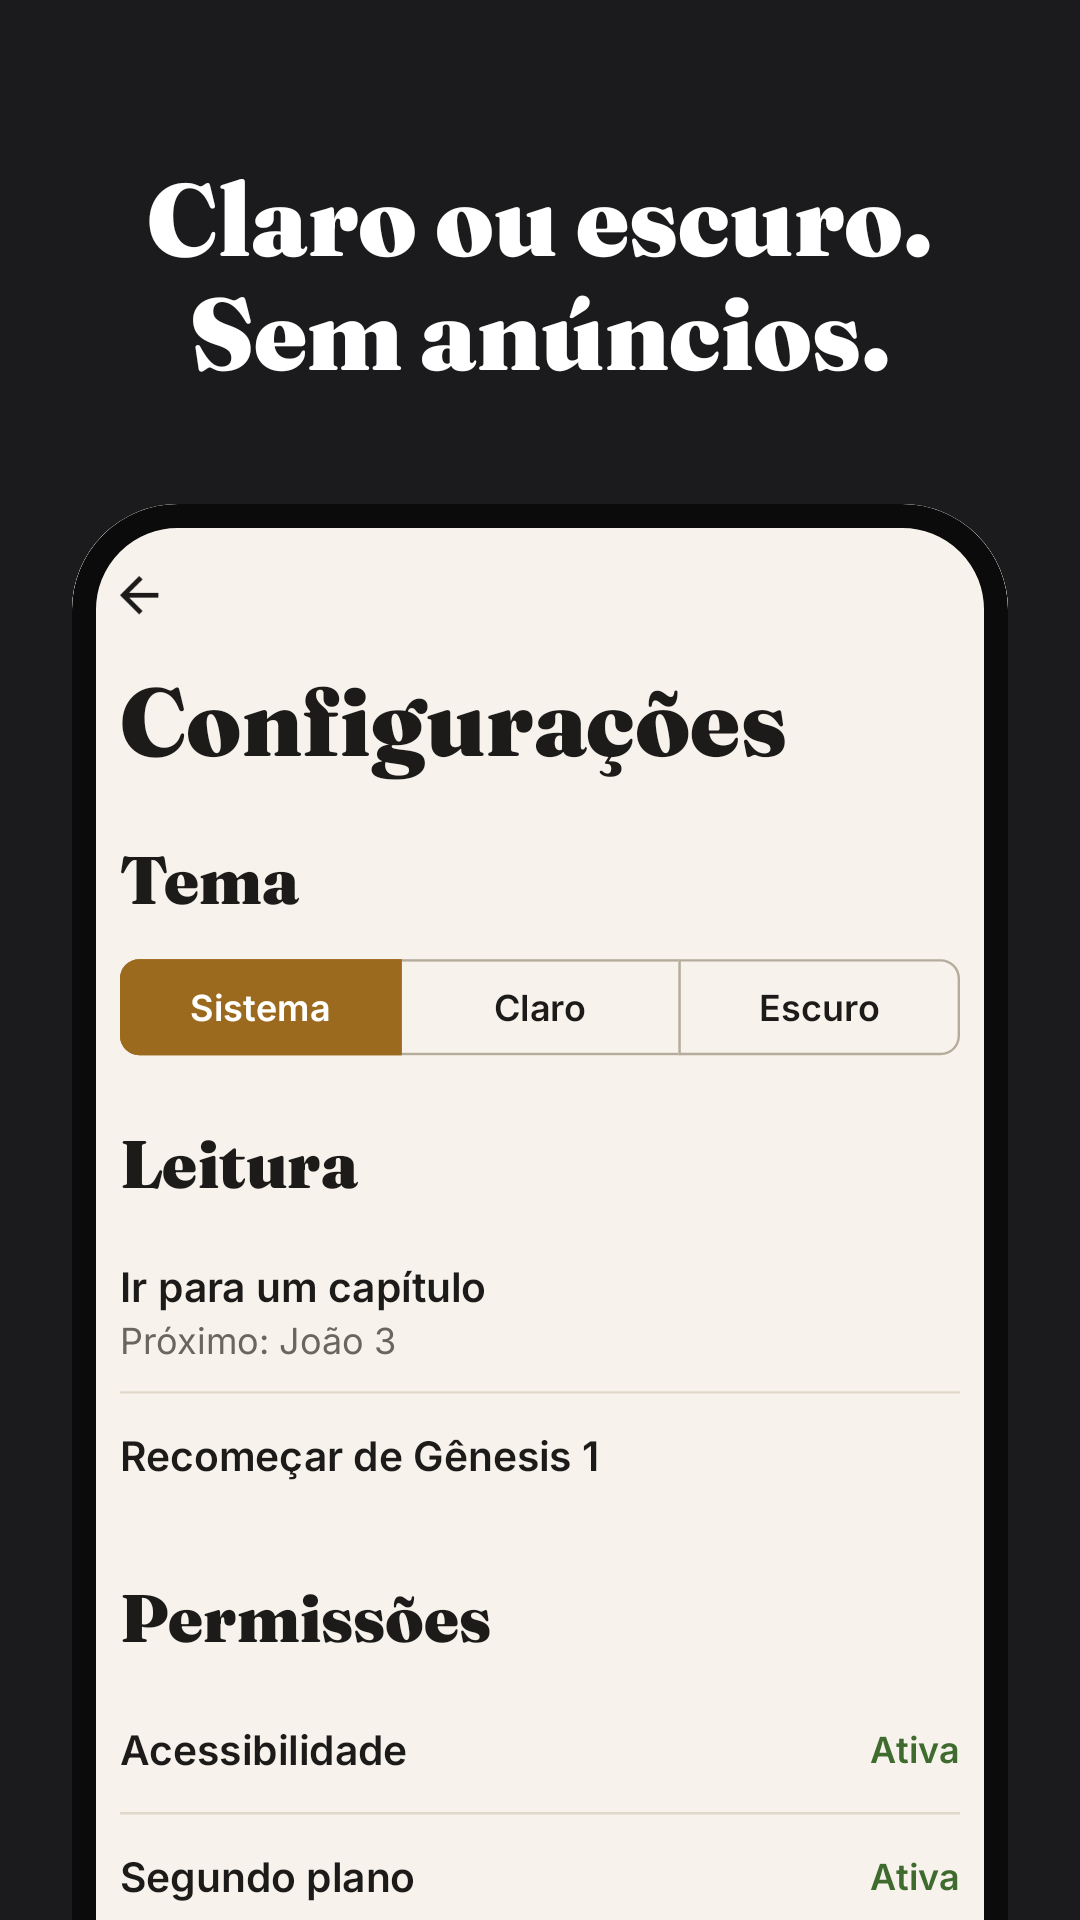
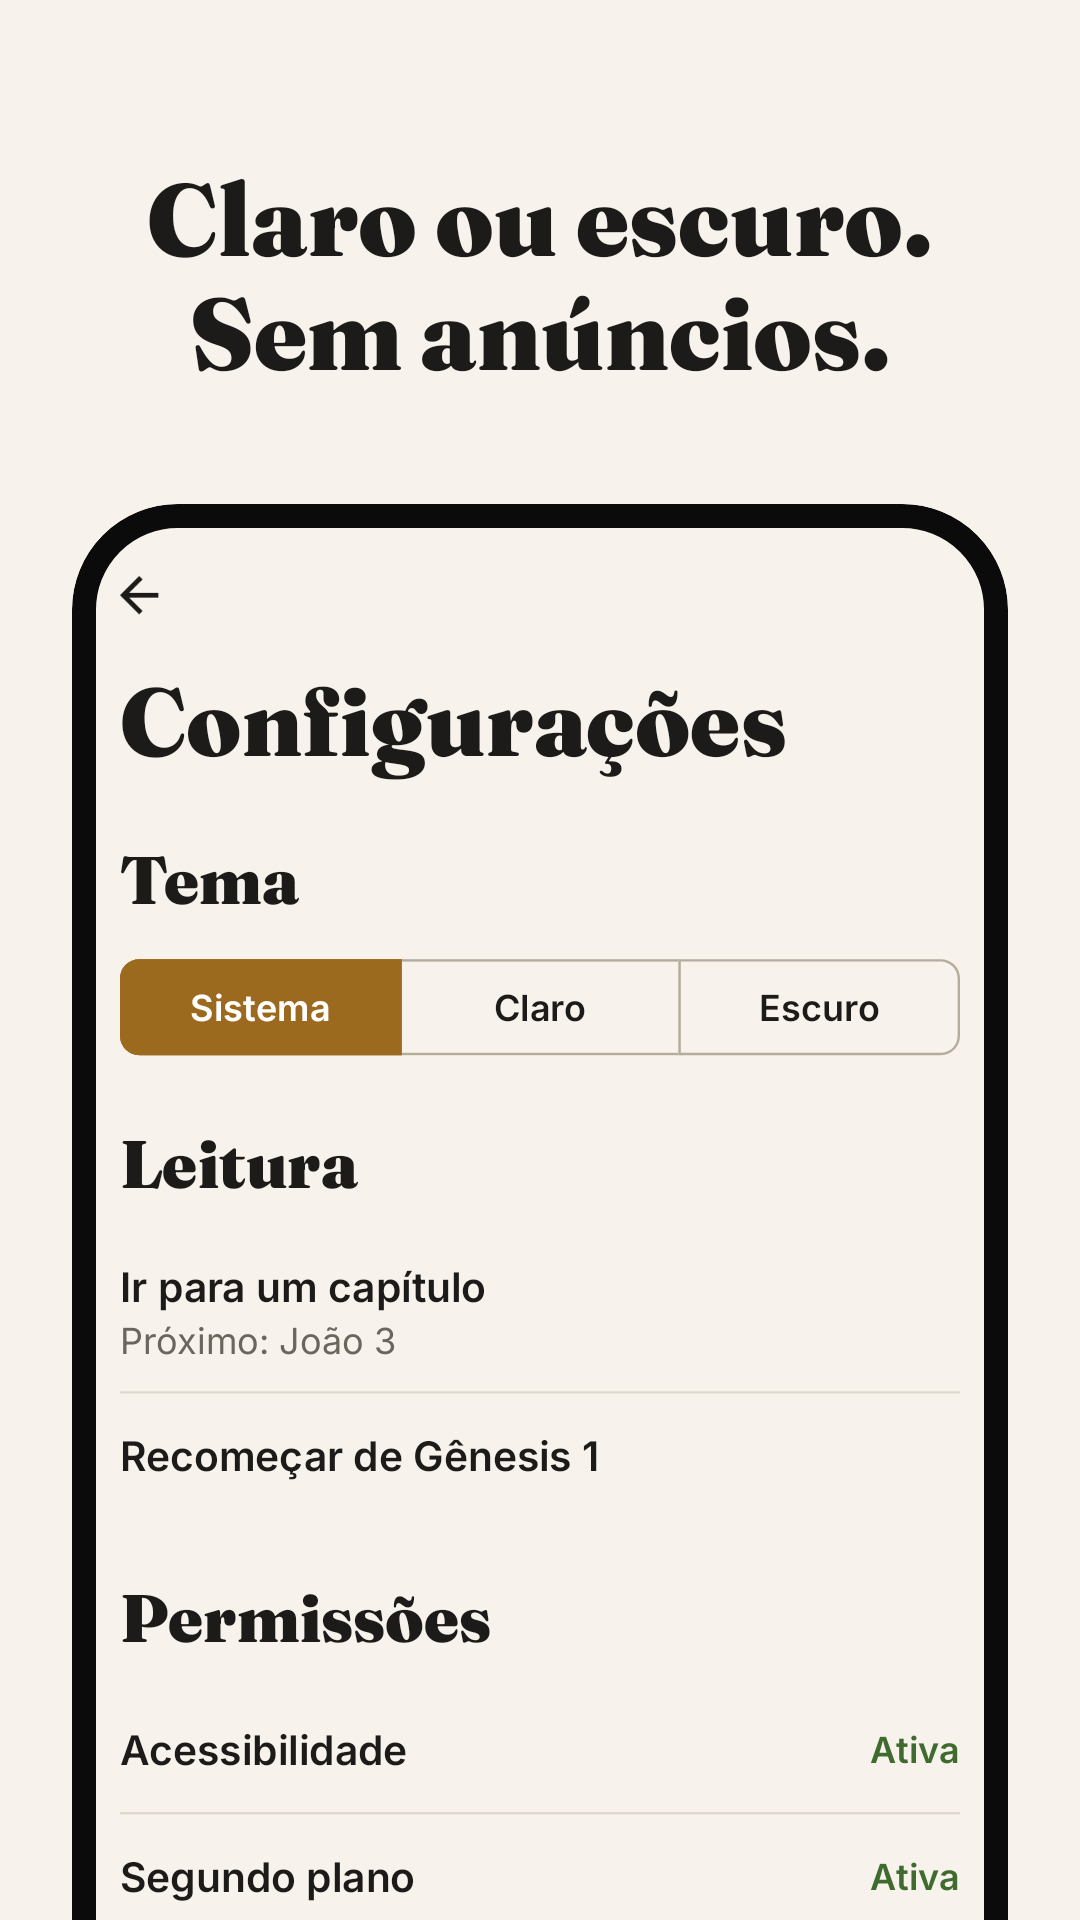
Play Store: capturas em fundo creme e tema claro

diff --git a/app/src/testGithubDebug/java/dev/renova/app/StoreImagesTest.kt b/app/src/testGithubDebug/java/dev/renova/app/StoreImagesTest.kt
@@ -55,7 +55,6 @@ import dev.renova.app.ui.Fraunces
 import dev.renova.app.ui.HomeScreen
 import dev.renova.app.ui.HomeTab
 import dev.renova.app.ui.Inter
-import dev.renova.app.ui.RenovaColors
 import dev.renova.app.ui.RuleEditorScreen
 import dev.renova.app.ui.SettingsScreen
 import kotlinx.coroutines.runBlocking
@@ -99,17 +98,17 @@ class StoreImagesTest {
         repeat(12) { store.completeChapter(bible.chaptersPerBook) }
     }
 
-    /** Frase em cima e a tela do app num "celular" que sai pela borda de baixo. */
-    private fun shot(name: String, headline: String, color: Color, dark: Boolean = true, screen: @Composable () -> Unit) {
+    /** Frase em cima e a tela do app, no tema claro, num "celular" que sai pela borda de baixo, sobre o creme. */
+    private fun shot(name: String, headline: String, screen: @Composable () -> Unit) {
         compose.setContent {
             AppTheme(dark = true) {
-                Box(Modifier.fillMaxSize().background(color)) {
+                Box(Modifier.fillMaxSize().background(Color(0xFFF7F3EC))) {
                     Text(
                         headline,
                         fontFamily = Fraunces,
                         fontSize = 34.sp,
                         lineHeight = 38.sp,
-                        color = Color.White,
+                        color = Color(0xFF1C1B19),
                         textAlign = TextAlign.Center,
                         modifier = Modifier.fillMaxWidth().padding(top = 52.dp, start = 28.dp, end = 28.dp),
                     )
@@ -129,7 +128,7 @@ class StoreImagesTest {
                             .clip(shape)
                             .border(10.dp, Color(0xFF0B0B0C), shape),
                     ) {
-                        AppTheme(dark = dark) {
+                        AppTheme(dark = false) {
                             Surface(color = MaterialTheme.colorScheme.background) {
                                 Box(Modifier.padding(top = 10.dp)) { screen() }
                             }
@@ -143,36 +142,36 @@ class StoreImagesTest {
 
     @Test fun regras() {
         allSet(); sampleData()
-        shot("1-regras", "Limite Shorts, Reels e apps", RenovaColors.Teal) {
+        shot("1-regras", "Limite Shorts, Reels e apps") {
             HomeScreen(HomeTab.RULES, {}, {}, {}, {})
         }
     }
 
-    @Test fun bloqueado() = shot("2-bloqueado", "Acabou o tempo? O app para.", RenovaColors.Plum) {
+    @Test fun bloqueado() = shot("2-bloqueado", "Acabou o tempo? O app para.") {
         BlockedScreen("TikTok", BlockReason.LIMIT.name, "Próximo: João 3", {}, {}, {})
     }
 
     @Test fun leitura() {
         val bible = runBlocking { Bible.load(context) }
-        shot("3-leitura", "Libere tempo lendo a Bíblia", RenovaColors.Olive) {
+        shot("3-leitura", "Libere tempo lendo a Bíblia") {
             ChapterReader(bible, BiblePosition(book = 42, chapter = 2)) {}
         }
     }
 
     @Test fun seteMinutos() {
         allSet()
-        shot("4-sete-minutos", "Comece o dia com o Senhor", RenovaColors.Mustard) {
+        shot("4-sete-minutos", "Comece o dia com o Senhor") {
             HomeScreen(HomeTab.DEVOTION, {}, {}, {}, {})
         }
     }
 
-    @Test fun editor() = shot("5-editor", "Limite e horários do seu jeito", RenovaColors.Teal) {
+    @Test fun editor() = shot("5-editor", "Limite e horários do seu jeito") {
         RuleEditorScreen(null) {}
     }
 
     @Test fun configuracoes() {
         allSet()
-        shot("6-configuracoes", "Claro ou escuro. Sem anúncios.", Color(0xFF1B1B1E), dark = false) { SettingsScreen {} }
+        shot("6-configuracoes", "Claro ou escuro. Sem anúncios.") { SettingsScreen {} }
     }
 
     /** Imagem de destaque: o broto, o nome e a frase. As cores do broto vêm do tema do qualificador. */
